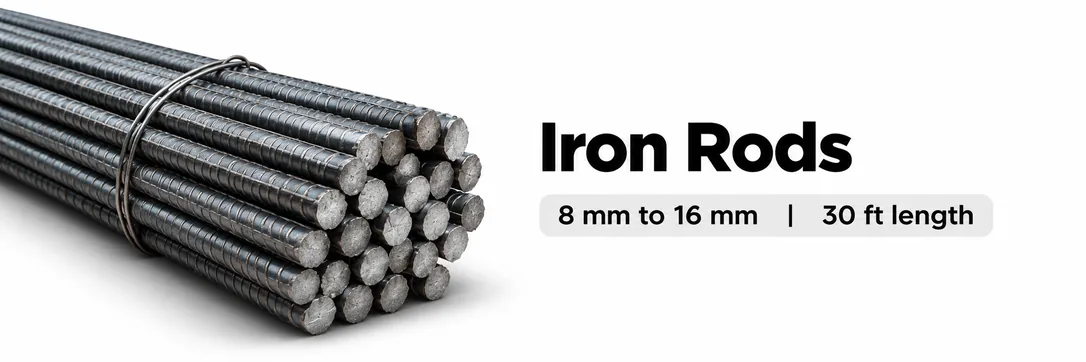
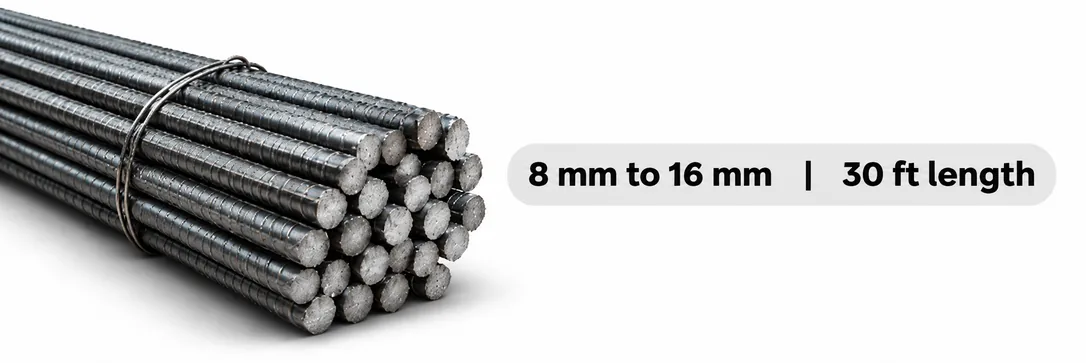
Add cement class letters; rod photo shows only its size label
Daniel's review:
- Cement names now show their strength class as printed on the bags:
  Supacem 32.5R, Supacem 42.5R, Dzata 42.5R, Ghacem Waterproof 42.5N.
  Changed together in index.html, tests/baseline/products.json and
  web/src/data/products.json (the Astro build checks they match), and in
  the three existing tests that name these products. IDs, units and prices
  are unchanged.
- "Iron Rods" removed from the rod photo (show, don't tell); it keeps only
  "8 mm to 16 mm | 30 ft length". New original in design/product-originals,
  the three WebP sizes remade from it (17 / 32 / 48 KB).
- Screenshots retaken; notes updated.

Claude-Session: https://claude.ai/code/session_01FicDKZAKcUjm6X3QhPb8ck

Changed region(s): [[0.0, 0.0304, 0.9724, 0.942], [0.0, 0.3039, 0.0304, 0.3343]]

diff --git a/index.html b/index.html
@@ -211,7 +211,7 @@ input[type=search],#loc,select{border:1px solid var(--line);border-radius:6px;fo
 /* --- Product images (added with the product-images branch) ---------------
    Rows for products that have a photo (cement bags, binding wire) get a square
    thumbnail in front of the name. Each iron rod tab opens with the same wide
-   photo of the rods ("Iron Rods, 8 mm to 16 mm, 30 ft length"), followed by
+   photo of the rods (labelled only "8 mm to 16 mm | 30 ft length"), followed by
    the tab's normal heading (Single Piece / Per Ton) and a one-line note on how
    it is sold. Image sizes are set in the HTML (width/height) so the page
    doesn't jump while pictures load. */
@@ -357,10 +357,10 @@ const CURRENCY="GH₵",TAX_RATE=0;
 // compare id, cat, name, unit and price against tests/baseline/products.json.
 const IMG="images/products/";
 const P=[
-{id:"c1",cat:"Cement",name:"Supacem 32.5",unit:"50 kg bag",price:75,img:IMG+"supacem-32-5.webp",alt:"Supacem Supa Fast 32.5R bag, green and kraft brown"},
-{id:"c2",cat:"Cement",name:"Supacem 42.5",unit:"50 kg bag",price:100,img:IMG+"supacem-42-5.webp",alt:"Supacem Supa Power 42.5R bag, kraft brown with black panel"},
-{id:"c3",cat:"Cement",name:"Dzata 42.5",unit:"50 kg bag",price:110,img:IMG+"dzata-42-5.webp",alt:"Dzata 42.5R bag, kraft brown with black and white lion panel"},
-{id:"c4",cat:"Cement",name:"Ghacem Waterproof 42.5",unit:"50 kg bag",price:120,img:IMG+"ghacem-waterproof-42-5.webp",alt:"Ghacem Super Strong Waterproof 42.5N bag, black and yellow panel with blue waves"},
+{id:"c1",cat:"Cement",name:"Supacem 32.5R",unit:"50 kg bag",price:75,img:IMG+"supacem-32-5.webp",alt:"Supacem Supa Fast 32.5R bag, green and kraft brown"},
+{id:"c2",cat:"Cement",name:"Supacem 42.5R",unit:"50 kg bag",price:100,img:IMG+"supacem-42-5.webp",alt:"Supacem Supa Power 42.5R bag, kraft brown with black panel"},
+{id:"c3",cat:"Cement",name:"Dzata 42.5R",unit:"50 kg bag",price:110,img:IMG+"dzata-42-5.webp",alt:"Dzata 42.5R bag, kraft brown with black and white lion panel"},
+{id:"c4",cat:"Cement",name:"Ghacem Waterproof 42.5N",unit:"50 kg bag",price:120,img:IMG+"ghacem-waterproof-42-5.webp",alt:"Ghacem Super Strong Waterproof 42.5N bag, black and yellow panel with blue waves"},
 {id:"i1",cat:"Iron Rods (Single Piece)",name:"Iron rod 16 mm",unit:"30 ft rod",price:102,size:"16 mm"},
 {id:"i2",cat:"Iron Rods (Single Piece)",name:"Iron rod 14 mm",unit:"30 ft rod",price:75,size:"14 mm"},
 {id:"i3",cat:"Iron Rods (Single Piece)",name:"Iron rod 12 mm",unit:"30 ft rod",price:58,size:"12 mm"},
@@ -385,7 +385,7 @@ const cats=[...new Set(P.map(p=>p.cat))];
 const ROD_PHOTO={
 src:IMG+"iron-rods-1086.webp",
 srcset:IMG+"iron-rods-720.webp 720w, "+IMG+"iron-rods-1086.webp 1086w, "+IMG+"iron-rods-1440.webp 1440w",
-w:1086,h:362
+w:1086,h:363
 };
 const CAT_INFO={
 "Iron Rods (Single Piece)":{banner:ROD_PHOTO,note:"Sold by the piece. Each rod is 30 ft long."},

diff --git a/tests/test_baseline_35.py b/tests/test_baseline_35.py
@@ -21,7 +21,7 @@ def is_a4(size):
 def test_b01_steppers_typed_quantity_and_totals(short):
     assert short.c2_after_plus == "10", "Add then + nine times should give 10"
     assert short.lines == [
-        {"name": "Supacem 42.5", "detail": f"{money(100)} per 50 kg bag", "qty": "9",
+        {"name": "Supacem 42.5R", "detail": f"{money(100)} per 50 kg bag", "qty": "9",
          "amount": money(900)},
         {"name": "Iron rod 12 mm", "detail": f"{money(58)} per 30 ft rod", "qty": "24",
          "amount": money(1392)},
@@ -32,7 +32,7 @@ def test_b01_steppers_typed_quantity_and_totals(short):
 
 
 def test_b02_search_filters(short):
-    assert [(r["name"], r["price"]) for r in short.search_rows] == [("Dzata 42.5", money(110))]
+    assert [(r["name"], r["price"]) for r in short.search_rows] == [("Dzata 42.5R", money(110))]
     assert short.rows_after_clearing_search == len(PRODUCTS)
 
 
@@ -59,7 +59,7 @@ def test_b06_whatsapp_has_drop_off_location(short):
 def test_b07_whatsapp_items_quantities_prices_line_totals(short):
     items = short.message.split("*Items*\n")[1].split("\n\n")[0]
     assert items == (
-        "1. Supacem 42.5 (50 kg bag)\n"
+        "1. Supacem 42.5R (50 kg bag)\n"
         f"   9 × {money(100)} = {money(900)}\n"
         "2. Iron rod 12 mm (30 ft rod)\n"
         f"   24 × {money(58)} = {money(1392)}")

diff --git a/web/README.md b/web/README.md
@@ -113,17 +113,18 @@ tests run against this build (they detect the local address
 
 | File (in `../images/products/`) | Used for | Size |
 | --- | --- | --- |
-| `supacem-32-5.webp` | Supacem 32.5 row (c1) | 360 × 360 |
-| `supacem-42-5.webp` | Supacem 42.5 row (c2) | 360 × 360 |
-| `dzata-42-5.webp` | Dzata 42.5 row (c3) | 360 × 360 |
-| `ghacem-waterproof-42-5.webp` | Ghacem Waterproof 42.5 row (c4) | 360 × 360 |
+| `supacem-32-5.webp` | Supacem 32.5R row (c1) | 360 × 360 |
+| `supacem-42-5.webp` | Supacem 42.5R row (c2) | 360 × 360 |
+| `dzata-42-5.webp` | Dzata 42.5R row (c3) | 360 × 360 |
+| `ghacem-waterproof-42-5.webp` | Ghacem Waterproof 42.5N row (c4) | 360 × 360 |
 | `binding-wire.webp` | Binding wire row (i8) | 360 × 360 |
-| `iron-rods-720.webp` | shared rod photo, phones | 720 × 240 (~18 KB) |
-| `iron-rods-1086.webp` | shared rod photo, default / mid-size screens | 1086 × 362 (~35 KB) |
-| `iron-rods-1440.webp` | shared rod photo, sharp screens | 1440 × 480 (~55 KB) |
+| `iron-rods-720.webp` | shared rod photo, phones | 720 × 241 (~17 KB) |
+| `iron-rods-1086.webp` | shared rod photo, default / mid-size screens | 1086 × 363 (~32 KB) |
+| `iron-rods-1440.webp` | shared rod photo, sharp screens | 1440 × 481 (~48 KB) |
 
-The rod photo shows "Iron Rods, 8 mm to 16 mm, 30 ft length" and is the same
-for both rod tabs. How each tab is sold is page text, not part of the image.
+The rod photo carries only the label "8 mm to 16 mm | 30 ft length" (the
+photo itself shows what the product is) and is the same for both rod tabs.
+The tab heading and how each tab is sold are page text, not part of the image.
 
 Full-size originals are in `../design/product-originals/` (not published).
 For Astro, copy the eight WebP files to `public/images/products/` so the paths
@@ -144,7 +145,7 @@ and per-tab extras:
 const ROD_PHOTO = {
   src: "images/products/iron-rods-1086.webp",
   srcset: "…720.webp 720w, …1086.webp 1086w, …1440.webp 1440w",
-  w: 1086, h: 362
+  w: 1086, h: 363
 };
 const CAT_INFO = {
   "Iron Rods (Single Piece)": {banner: ROD_PHOTO, note: "Sold by the piece. Each rod is 30 ft long."},

diff --git a/design/product-originals/README.md b/design/product-originals/README.md
@@ -15,7 +15,7 @@ The website uses the small optimised copies in `images/products/` instead:
 | `dzata-42-5.png` | `images/products/dzata-42-5.webp` | square crop of the bag, 360 × 360, WebP |
 | `ghacem-waterproof-42-5.png` | `images/products/ghacem-waterproof-42-5.webp` | square crop of the bag, 360 × 360, WebP |
 | `binding-wire.png` | `images/products/binding-wire.webp` | square crop of the coil, 360 × 360, WebP |
-| `iron-rods.png` | `images/products/iron-rods-720.webp`, `-1086.webp`, `-1440.webp` | whole image at three widths (720, 1086, 1440 px), WebP quality 82; one shared photo for both rod tabs |
+| `iron-rods.png` | `images/products/iron-rods-720.webp`, `-1086.webp`, `-1440.webp` | whole image at three widths (720, 1086, 1440 px), WebP quality 82; one shared photo for both rod tabs, labelled only "8 mm to 16 mm \| 30 ft length" |
 
 ## Important
 
